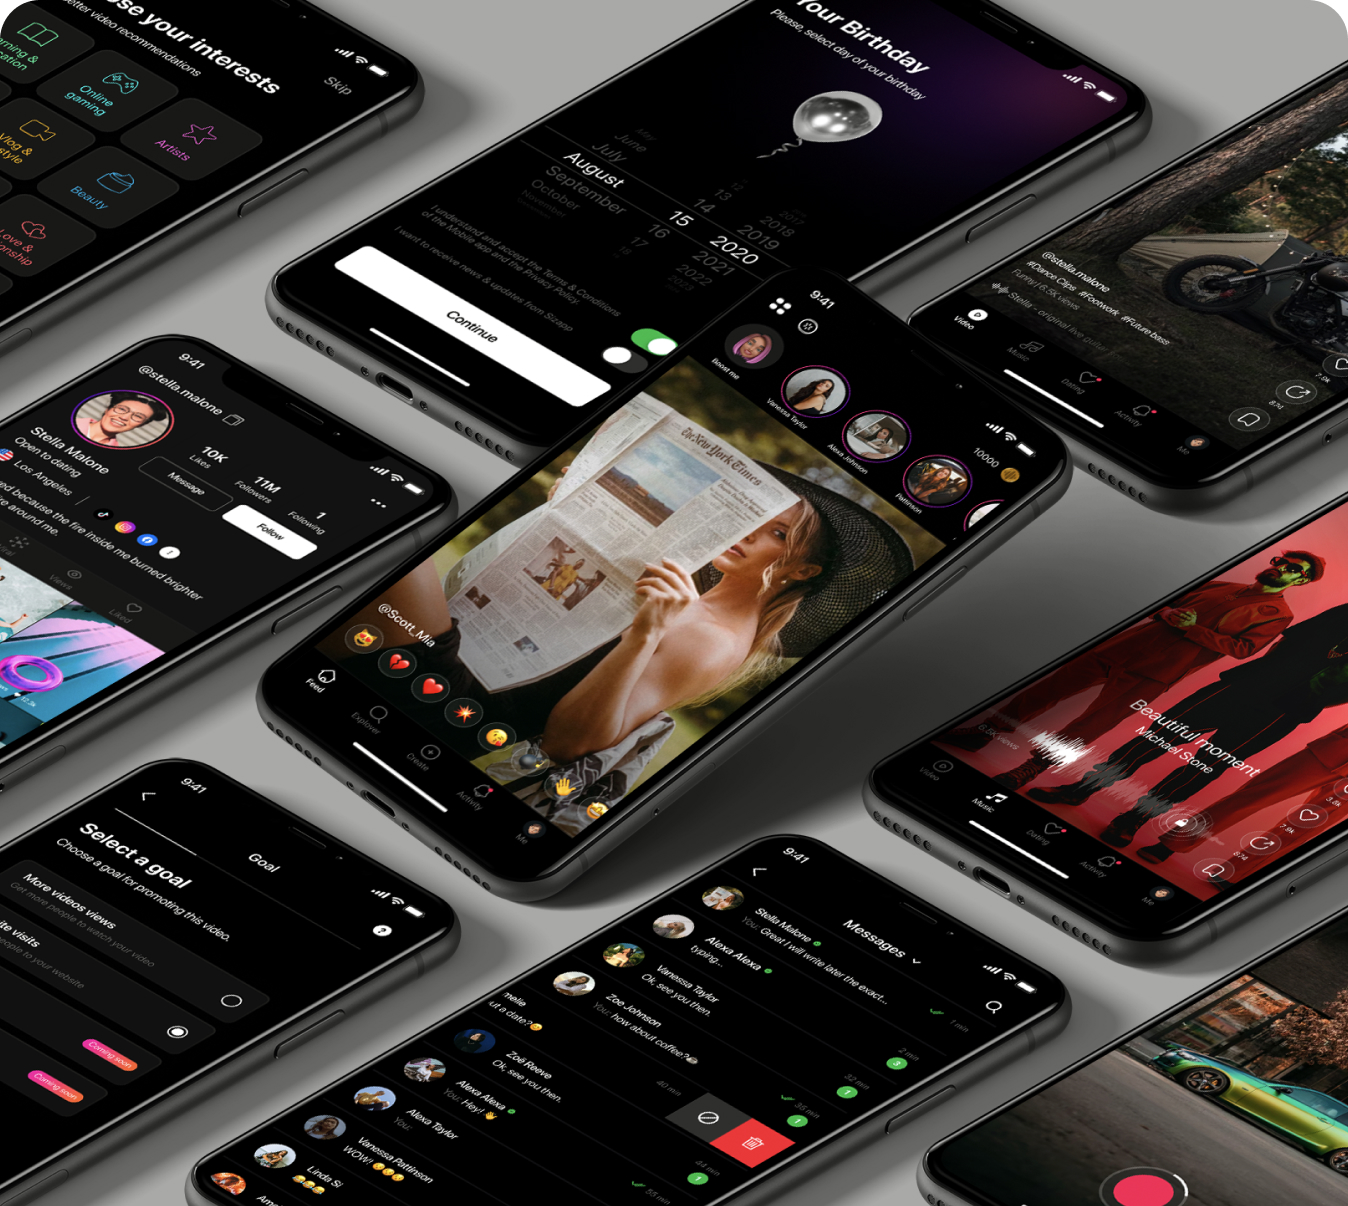
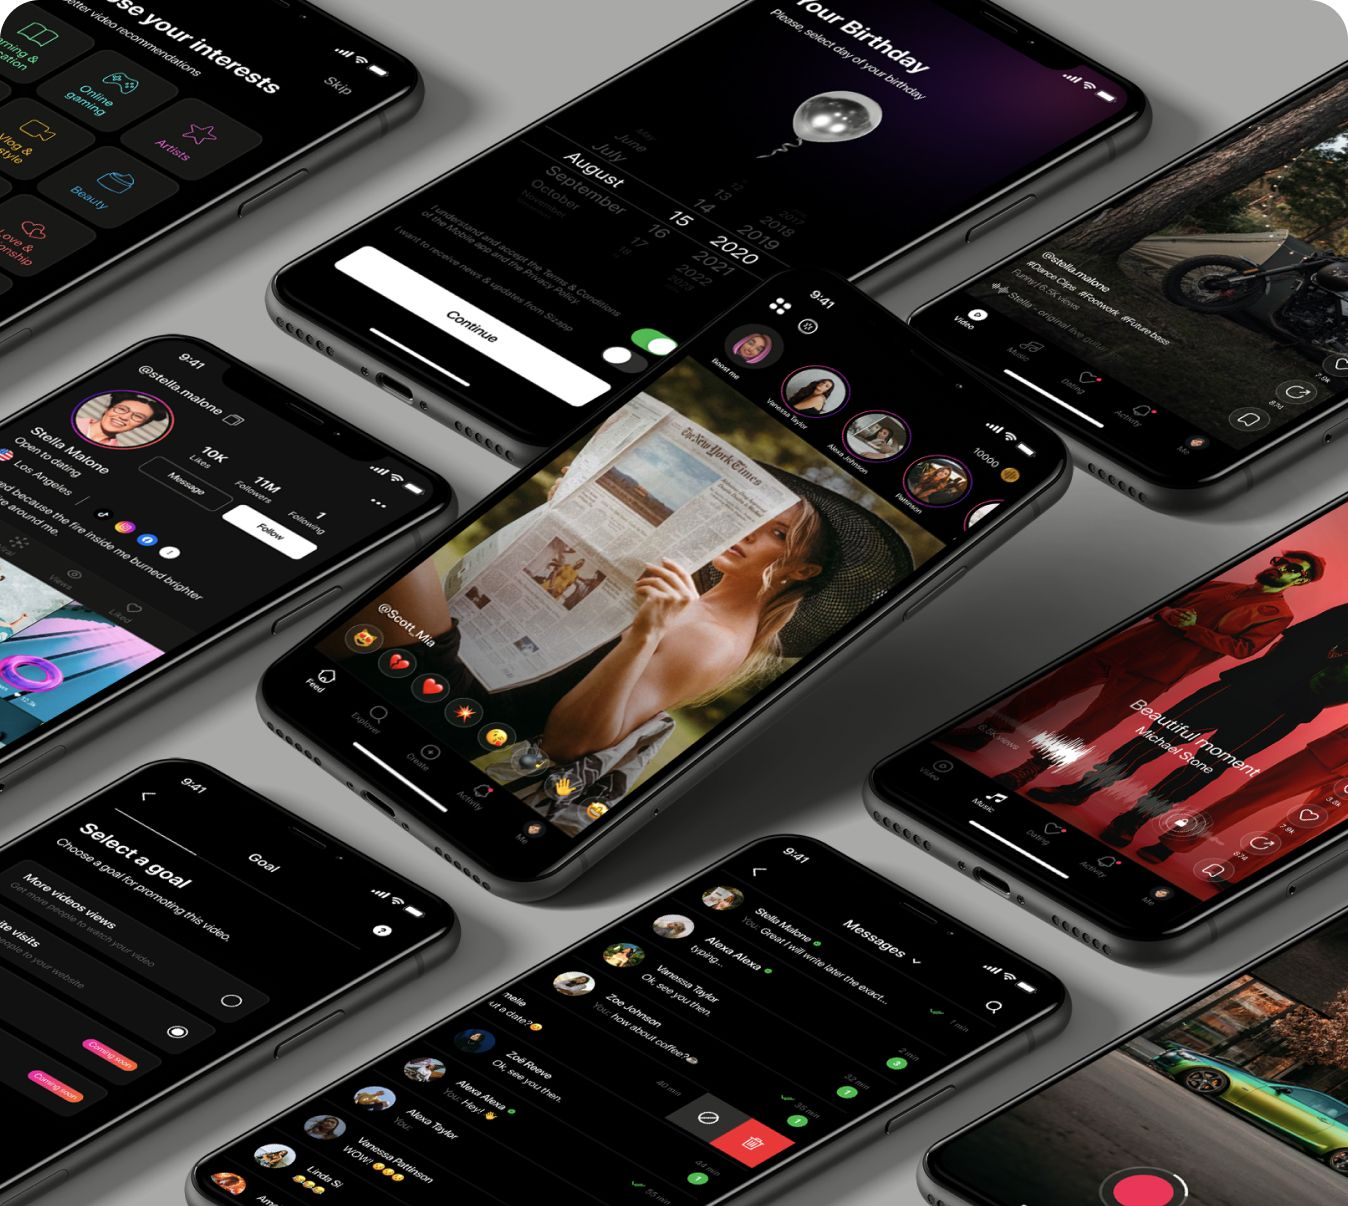
compressed all images

diff --git a/src/components/Projects/Projects.jsx b/src/components/Projects/Projects.jsx
@@ -17,20 +17,19 @@ const Projects = () => {
       return (
         <li key={title} id="first" className={s.projectsItem}>
           <picture>
-            <img
+            <source
               className={s.projectsImage}
-              srcSet={
-                (`${src1xwebP} 1x,${src2xwebP} 2x,${src3xwebP} 3x`,
-                `${src1x} 1x,${src2x} 2x,${src3x} 3x`)
-              }
+              srcSet={`${src1xwebP} 1x,${src2xwebP} 2x,${src3xwebP} 3x`}
               alt="Img"
-              // type="image/webp"
+              type="image/webp"
             />
-            {/* <img
+            <source
               className={s.projectsImage}
               srcSet={`${src1x} 1x,${src2x} 2x,${src3x} 3x`}
               alt="Img"
-            /> */}
+              type="image/jpeg"
+            />
+            <img src={src1x} alt="Imag" />
           </picture>
           {/* <img
           className={s.projectsImage}

diff --git a/src/components/Projects/projects.module.scss b/src/components/Projects/projects.module.scss
@@ -13,6 +13,7 @@
   &Item {
     position: relative;
     border-radius: 20px;
+    overflow: hidden;
 
     &::after {
       content: '';
@@ -30,12 +31,16 @@
       );
       // z-index: 1;
     }
+
+    img {
+      border-radius: 20px;
+    }
   }
 
-  &Image {
-    position: relative;
-    border-radius: 20px;
-  }
+  // &Image {
+  //   position: relative;
+  //   border-radius: 20px;
+  // }
 
   &Content {
     position: absolute;
